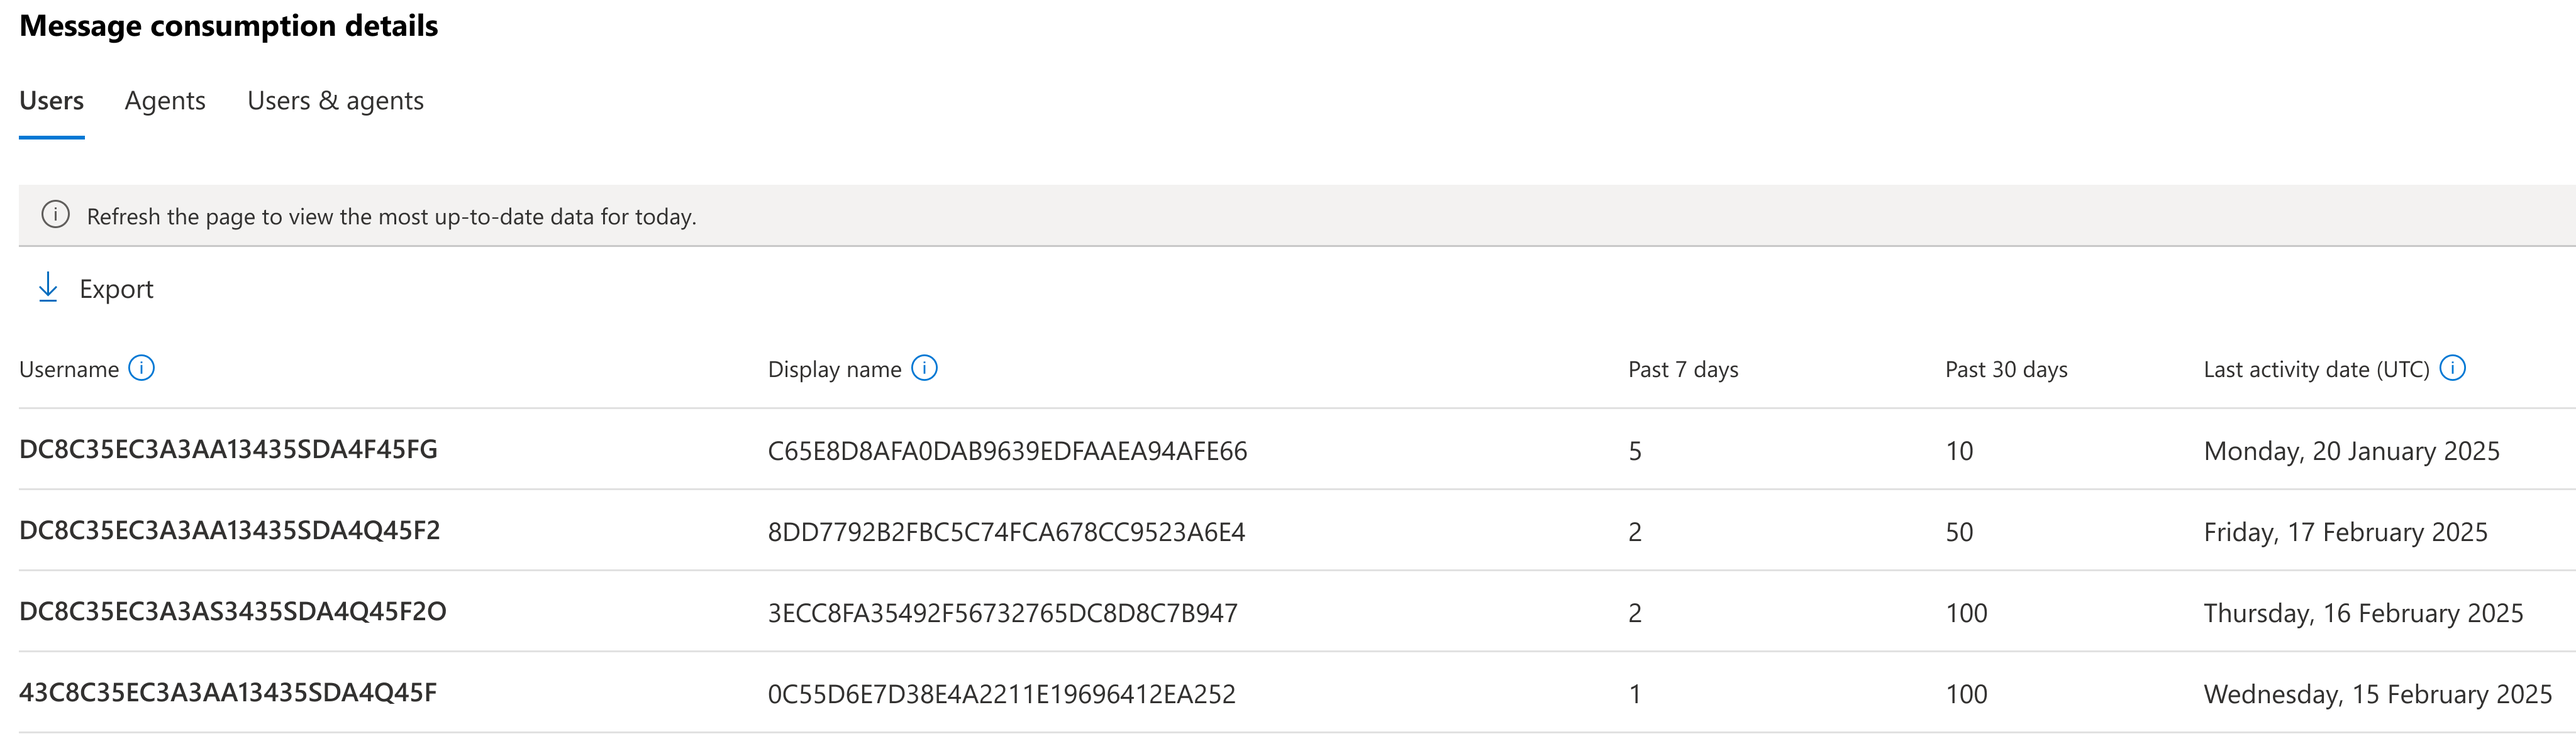
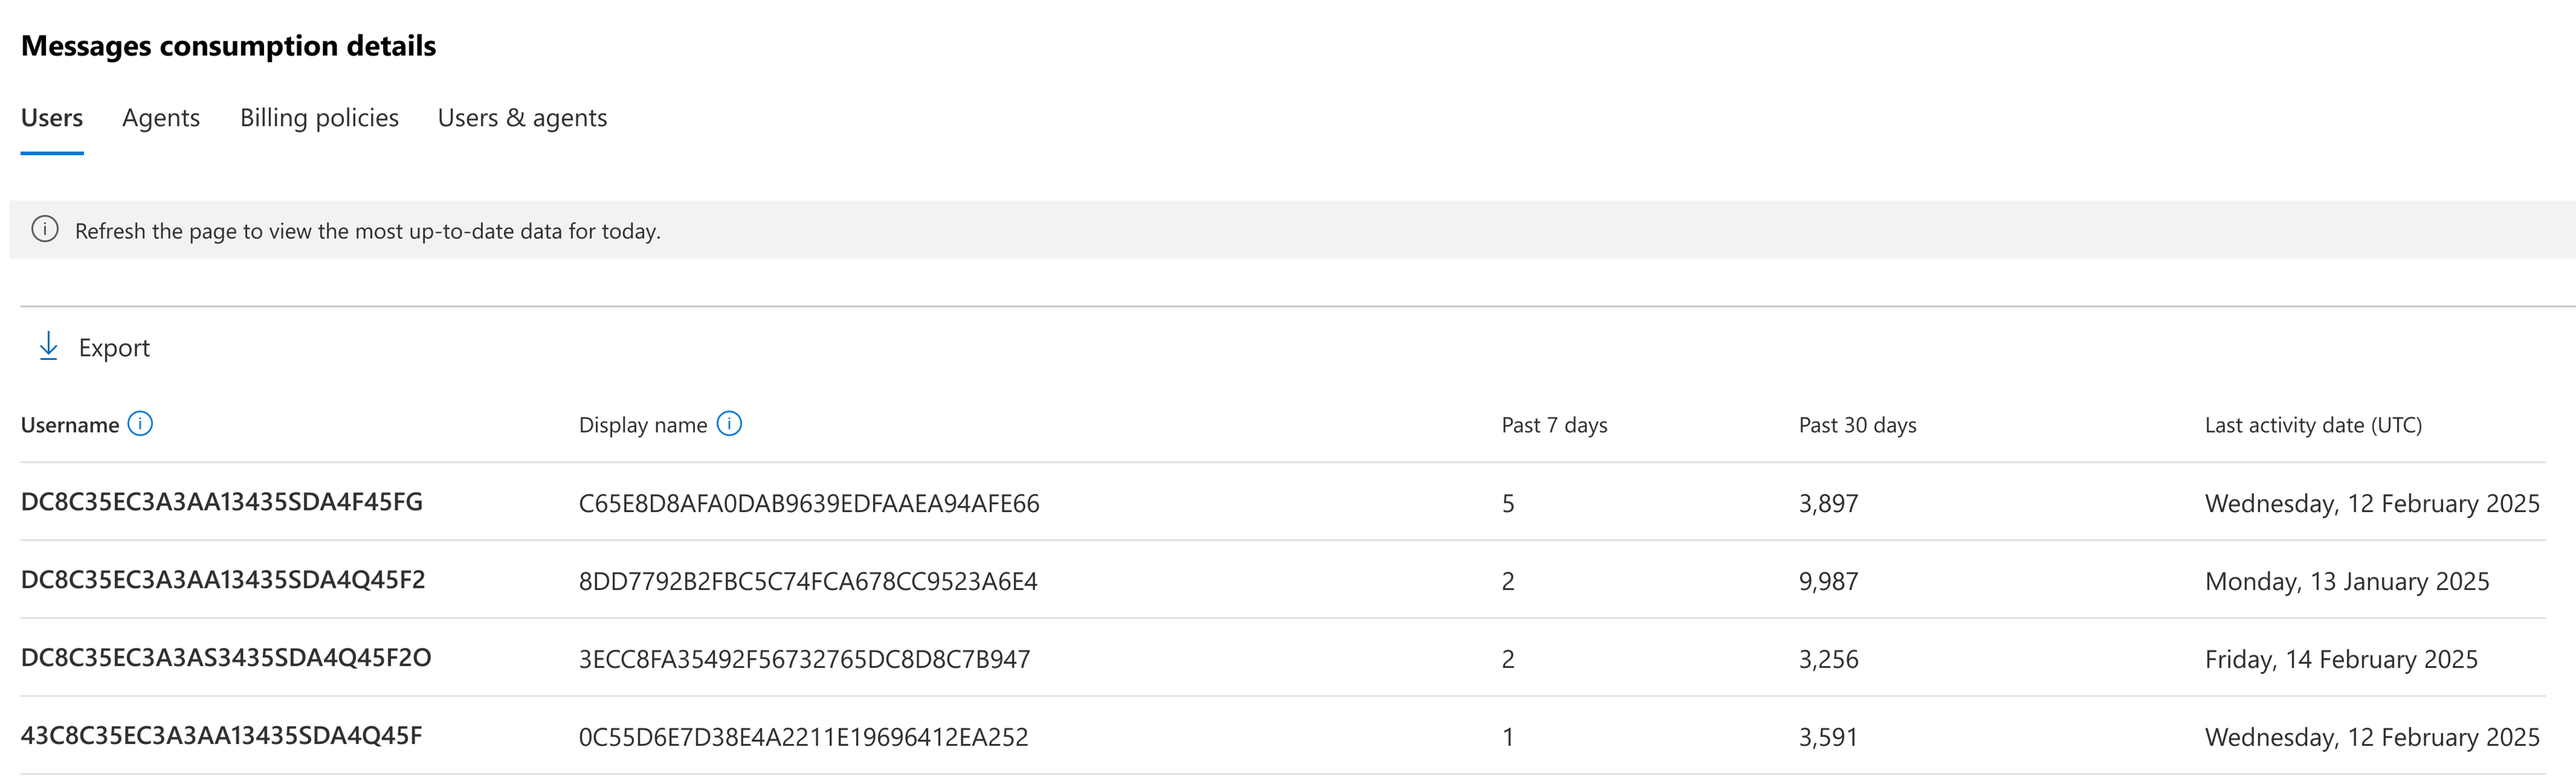
Updated article for UI change.

diff --git a/microsoft-365/admin/activity-reports/message-consumption.md b/microsoft-365/admin/activity-reports/message-consumption.md
@@ -1,9 +1,9 @@
 ---
 title: "Microsoft 365 reports in the admin center - Message consumption"
 ms.author: camillepack
-author: camillepack
+author: efrene
 manager: scotv
-ms.date: 05/06/2025
+ms.date: 07/07/2025
 audience: Admin
 ms.topic: concept-article
 ms.service: microsoft-365-copilot
@@ -27,7 +27,7 @@ The Message consumption report helps you manage metered consumption costs for Mi
 
 - Total messages consumed
 - Cumulative and daily time series
-- Messages consumed per user, per agent, and per agent-user pair
+- Messages consumed per user, per agent, per billing policy, and per agent-user pair
 
 To learn more about meters, see [Meters for Microsoft 365 Copilot pay-as-you-go for IT admins](/copilot/microsoft-365/pay-as-you-go/meters).
 
@@ -52,7 +52,7 @@ You can filter the report by different periods. The Message consumption report c
 
 ### Messages consumed
 
-The **Messages consumed** metric shows the [total billed messages](/microsoft-copilot-studio/billing-licensing#billed-messages) from interactions by users in your organization who do not have a Microsoft 365 Copilot license, and are interacting with agents in Copilot Chat that spin the [Copilot Studio meter](/microsoft-copilot-studio/billing-licensing#copilot-studio-pay-as-you-go-meter) during the selected period.  
+The **Messages consumed** metric shows the [total billed messages](/microsoft-copilot-studio/billing-licensing#billed-messages) from interactions by users in your organization who do not have a Microsoft 365 Copilot license, and are interacting with agents in Copilot Chat that spin the [Copilot Studio meter](/microsoft-copilot-studio/billing-licensing#copilot-studio-pay-as-you-go-meter) during the selected period. You can view usage within an hour from when users interact with a metered agent.  
 
 The number of messages consumed depends on the design of the agent, how often end-users interact with it, and the features the agent uses. Each interaction with an agent might use multiple message types simultaneously. For example, an agent grounded in a tenant graph could use 12 messages (10 messages for tenant graph-grounding, and two messages for generative answers) to respond to a single complex prompt from a user.
 
@@ -109,6 +109,18 @@ You can view user details, agent details, and user & agent details in the Messag
 | Past 30 days            | The total messages consumed by users who used this agent over the past 30 days including today. |
 | Last activity date (UTC)| The date when the agent was last used by users in your org who do not have Microsoft 365 Copilot license. |
 
+### Billing Policies
+
+:::image type="content" source="../../media/mc-agent-details.png" alt-text="Screenshot showing a table for agent details in the Message consumption report." lightbox="../../media/mc-billing-policies.png":::
+
+| Item                    | Description                                                                                      |
+|-------------------------|--------------------------------------------------------------------------------------------------|
+| Billing Policy ID       | The ID is a Microsoft-generated identifier linked to the Billing policy that was created for specific users in a security group.         |
+| Past 7 days             | The total messages consumed by members of the security group linked to Billing policy over the past 7 days, including today.  |
+| Past 30 days            | The total messages consumed by members of the security group linked to Billing policy over the past 30 days, including today.  |
+| Last activity date (UTC)| The most recent date on which a member of the security group linked to the Billing policy consumed messages.  |
+
+
 ### User and agent details
 
 :::image type="content" source="../../media/mc-user-agent.png" alt-text="Screenshot showing the table for user and agent details in the Message consumption report." lightbox="../../media/mc-user-agent.png":::
@@ -118,6 +130,7 @@ You can view user details, agent details, and user & agent details in the Messag
 | Agent ID                | An agent is an element of an app. The ID is the app identifier generated by Microsoft.          |
 | Agent name              | The name of the app as present in the app manifest                                               |
 | Username                | The user's principal name.                                                                       |
+| Billing Policy ID       | The ID is a Microsoft-generated identifier linked to the Billing policy that was created for specific users in a security group.         |
 | Past 7 days             | The total messages consumed by the user who used this agent over the past 7 days, including today                            |
 | Past 30 days            | The total messages consumed by the user who used this agent over the past 30 days, including today                            |
 | Last activity date (UTC)| The date when the agent was last used by users in your org who do not have Microsoft 365 Copilot license. |
@@ -134,3 +147,8 @@ Yes. You can set up the pay-as-you-go billing policy in the Microsoft 365 admin 
 ### What is “Last activity detected”?  
 
 **Last activity detected** is the date and timestamp of the most recent prompt or user activity that generated the messages consumed.
+
+### How do I find a Billing policy name from the Billing policy ID? 
+1. In the Microsoft 365 admin center, go to **Copilot > Billing & usage**. 
+2. On the **Billing policies** tab, select a **Billing policy** and go to **Details**.
+3. You will see **Policy name** and **Billing Policy ID**.  
